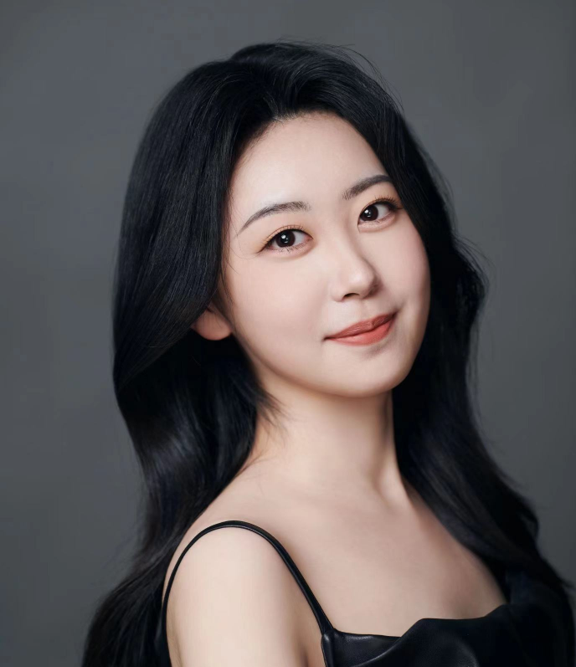
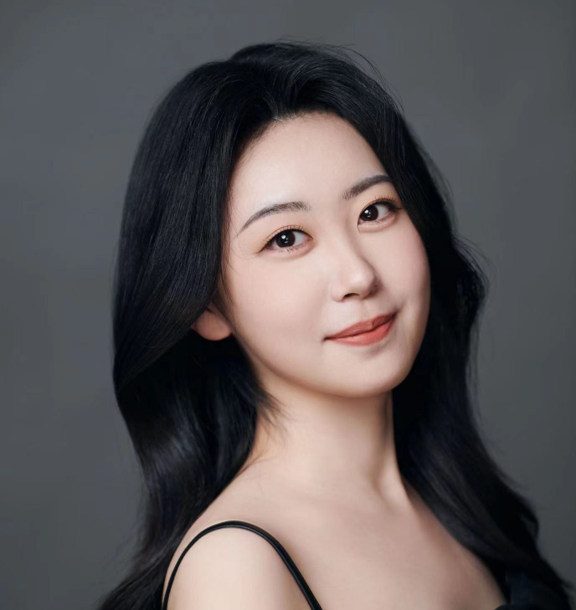
adjust size of image

diff --git a/assets/css/styles.css b/assets/css/styles.css
@@ -91,7 +91,7 @@ img { display: block; max-width: 100%; }
 }
 
 .insait-logo {
-  height: 28px;
+  height: 22px;
   width: auto;
   display: block;
 }
@@ -150,7 +150,7 @@ img { display: block; max-width: 100%; }
 }
 
 .hero-insait-logo {
-  height: 90px;
+  height: 85px;
   width: auto;
   display: block;
   transition: opacity 0.2s ease;